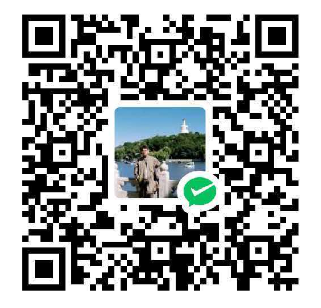
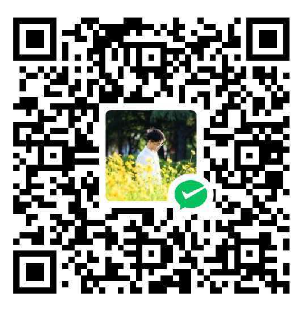
Update donation QR code

diff --git a/web/index.html b/web/index.html
@@ -99,7 +99,7 @@
     <div class="modal-header"><h2 id="support-title">支持项目</h2><button class="icon-button" type="button" data-close-dialog aria-label="关闭">×</button></div>
     <p class="support-free">本项目完全免费，如果你在其他地方收费获取了该项目，请退款并联系原作者。</p>
     <p>如果你支持该项目，欢迎自愿捐赠，帮助作者继续开发、维护和适配更多设备。</p>
-    <figure class="support-code"><img src="/assets/donation-qr.png" width="240" height="230" alt="捐赠二维码"><figcaption>扫码捐赠</figcaption></figure>
+    <figure class="support-code"><img src="/assets/donation-qr.png" width="305" height="312" alt="捐赠二维码"><figcaption>扫码捐赠</figcaption></figure>
     <p>如果你希望自己的机型也得到适配，可以提供设备供作者验证，欢迎联系。</p>
     <p class="support-contact">联系作者：<a href="mailto:duanegbrain@163.com">duanegbrain@163.com</a> · <a href="https://www.xiaohongshu.com/user/profile/69e0548e0000000033026abc" target="_blank" rel="noopener">小红书</a></p>
     <div class="modal-footer"><button class="button primary" type="button" data-close-dialog>关闭</button></div>
